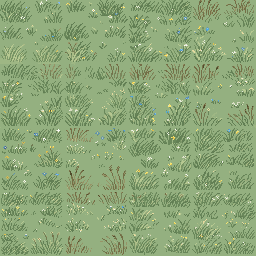
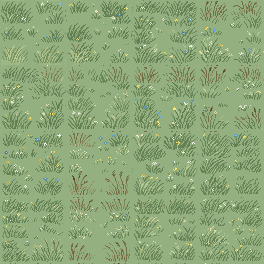
Every tile carries a one-pixel gutter of its own opposite edge, and the clamp it replaces was guarding the wrong thing
A tile packed into an atlas cannot use the hardware REPEAT wrap -- the sampler would wrap
the whole ATLAS, not the cell -- so the wrapped neighbour has to be handed to the filter
explicitly. That is a one-pixel border around each 64px cell, copied from the opposite
edge: the left gutter is the rightmost column, the top is the bottom row. Exactly the
texel REPEAT would have fetched, sitting where a filter looks for it. The atlas is 4x4 of
66px (264x264) and the art inside is byte-for-byte what it was.

WHAT IT REPLACES WAS WRONG TWICE. The shipped fix clamped the sample away from the cell
edge, and its inset was computed against the ATLAS width (0.5/256) while being applied in
CELL space, where a cell is 64 texels -- an eighth of a texel where the comment claimed a
half. And even computed correctly a clamp REPEATS the edge texel rather than wrapping it,
which breaks the join on precisely the tiles that were seamless to begin with. A gutter
preserves seamlessness; a clamp destroys it.

⚠ AND IT CHANGES NOTHING ON SCREEN TODAY, WHICH IS THE HONEST HALF. `load_tiled` samples
these atlases NEAREST, because they are pixel art -- and a nearest sample takes exactly
one texel, so there was never any filtering here to drag a neighbouring variation across
the join. The "bright fringe along every tile" the old comment described cannot have been
bilinear bleed under this sampler. What the clamp actually guarded was an off-by-one
[…]

Changed region(s): [[0.0, 0.0, 1.0, 1.0], [0.0, 0.0, 0.125, 0.1562], [0.625, 0.6562, 0.6562, 0.6875]]

diff --git a/client/scripts/pack_ground_atlas.py b/client/scripts/pack_ground_atlas.py
@@ -7,18 +7,35 @@ ground". Picking one and discarding fifteen throws away the entire point and lea
 ground a single 64px stamp repeated to the horizon, which is the monotony we then tried
 to paper over in the shader.
 
-So all sixteen ship, packed into one 256x256 texture (4x4 of 64px). The shader picks two
-variations by a smooth low-frequency field and CROSS-FADES between them, rather than
-hard-switching per cell — a hard switch would just trade a repeating grid for a mosaic of
-visible tile borders, since these variations do not share edges.
+So all sixteen ship, packed into one atlas. The shader picks two variations by a smooth
+low-frequency field and CROSS-FADES between them, rather than hard-switching per cell —
+a hard switch would just trade a repeating grid for a mosaic of visible tile borders,
+since these variations do not share edges.
+
+⚠ EVERY CELL CARRIES A ONE-PIXEL GUTTER COPIED FROM ITS OPPOSITE EDGE, so the atlas is
+4x4 of 66px (264x264) holding 64px tiles. A tile in an atlas cannot use the hardware
+REPEAT wrap — the sampler would wrap the whole atlas, not the cell — so at the cell edge
+bilinear filtering has to be given the wrapped neighbour explicitly. That is what the
+gutter is: the left border is a copy of the rightmost column, the top of the bottom row,
+and so on, which is exactly the texel REPEAT would have fetched.
+
+The alternative, clamping the sample away from the cell edge, was what shipped first and
+it is worse twice over. It bled anyway (the inset was computed against the ATLAS width
+while being applied in CELL space, so a "half texel" was an eighth of one and filtering
+still pulled a third of the neighbouring variation in as a fringe), and even done
+correctly it REPEATS the edge texel instead of wrapping it — which destroys the
+seamlessness of any tile that actually was seamless. A gutter preserves it.
 
     python3 client/scripts/pack_ground_atlas.py <tiles-dir> <out.png>
+    python3 client/scripts/pack_ground_atlas.py --repack <old-atlas.png> <out.png>
 
 Tiles are laid out in sorted filename order, which is the generator's own numbering.
 """
 import argparse, pathlib, struct, sys, zlib
 
-CELL, GRID = 64, 4
+CELL, GRID, PAD = 64, 4, 1
+STRIDE = CELL + 2 * PAD          # 66: the tile plus its wrap gutter
+SIDE = STRIDE * GRID             # 264
 
 
 def read_png(path):
@@ -63,28 +80,56 @@ def write_png(path, w, h, px):
                      + chunk(b"IDAT", zlib.compress(raw, 9)) + chunk(b"IEND", b""))
 
 
+def place(atlas, tile, gx, gy):
+    """Blit one 64px tile into its cell, ringed by a 1px gutter of its own opposite edge.
+
+    The modulo IS the wrap: reading the tile at -1 fetches column 63, which is the texel
+    a REPEAT sampler would have blended at that boundary.
+    """
+    for y in range(-PAD, CELL + PAD):
+        row = ((gy * STRIDE + PAD + y) * SIDE) * 4
+        for x in range(-PAD, CELL + PAD):
+            src = ((y % CELL) * CELL + (x % CELL)) * 4
+            dst = row + (gx * STRIDE + PAD + x) * 4
+            atlas[dst:dst + 4] = tile[src:src + 4]
+
+
 def main():
     ap = argparse.ArgumentParser(description=__doc__,
                                  formatter_class=argparse.RawDescriptionHelpFormatter)
+    ap.add_argument("--repack", action="store_true",
+                    help="src is an existing unpadded 4x4 atlas, not a directory of tiles")
     ap.add_argument("src", type=pathlib.Path)
     ap.add_argument("dst", type=pathlib.Path)
     a = ap.parse_args()
-    files = sorted(a.src.rglob("*.png"))
-    if len(files) < GRID * GRID:
-        sys.exit(f"{a.src}: need {GRID * GRID} tiles, found {len(files)}")
-    side = CELL * GRID
-    atlas = bytearray(side * side * 4)
-    for i, f in enumerate(files[:GRID * GRID]):
-        w, h, px = read_png(f)
-        if (w, h) != (CELL, CELL):
-            sys.exit(f"{f.name}: {w}x{h}, expected {CELL}x{CELL}")
-        gx, gy = i % GRID, i // GRID
-        for y in range(CELL):
-            src = y * w * 4
-            dst = ((gy * CELL + y) * side + gx * CELL) * 4
-            atlas[dst:dst + CELL * 4] = px[src:src + CELL * 4]
-    write_png(a.dst, side, side, bytes(atlas))
-    print(f"  {a.dst.name}: {GRID}x{GRID} atlas of {CELL}px ({side}x{side})")
+
+    tiles = []
+    if a.repack:
+        w, h, px = read_png(a.src)
+        if (w, h) != (CELL * GRID, CELL * GRID):
+            sys.exit(f"{a.src}: {w}x{h}, expected an unpadded {CELL * GRID}px atlas")
+        for i in range(GRID * GRID):
+            gx, gy = i % GRID, i // GRID
+            t = bytearray()
+            for y in range(CELL):
+                o = ((gy * CELL + y) * w + gx * CELL) * 4
+                t += px[o:o + CELL * 4]
+            tiles.append(bytes(t))
+    else:
+        files = sorted(a.src.rglob("*.png"))
+        if len(files) < GRID * GRID:
+            sys.exit(f"{a.src}: need {GRID * GRID} tiles, found {len(files)}")
+        for f in files[:GRID * GRID]:
+            w, h, px = read_png(f)
+            if (w, h) != (CELL, CELL):
+                sys.exit(f"{f.name}: {w}x{h}, expected {CELL}x{CELL}")
+            tiles.append(px)
+
+    atlas = bytearray(SIDE * SIDE * 4)
+    for i, t in enumerate(tiles):
+        place(atlas, t, i % GRID, i // GRID)
+    write_png(a.dst, SIDE, SIDE, bytes(atlas))
+    print(f"  {a.dst.name}: {GRID}x{GRID} atlas of {CELL}px +{PAD}px gutter ({SIDE}x{SIDE})")
 
 
 if __name__ == "__main__":
